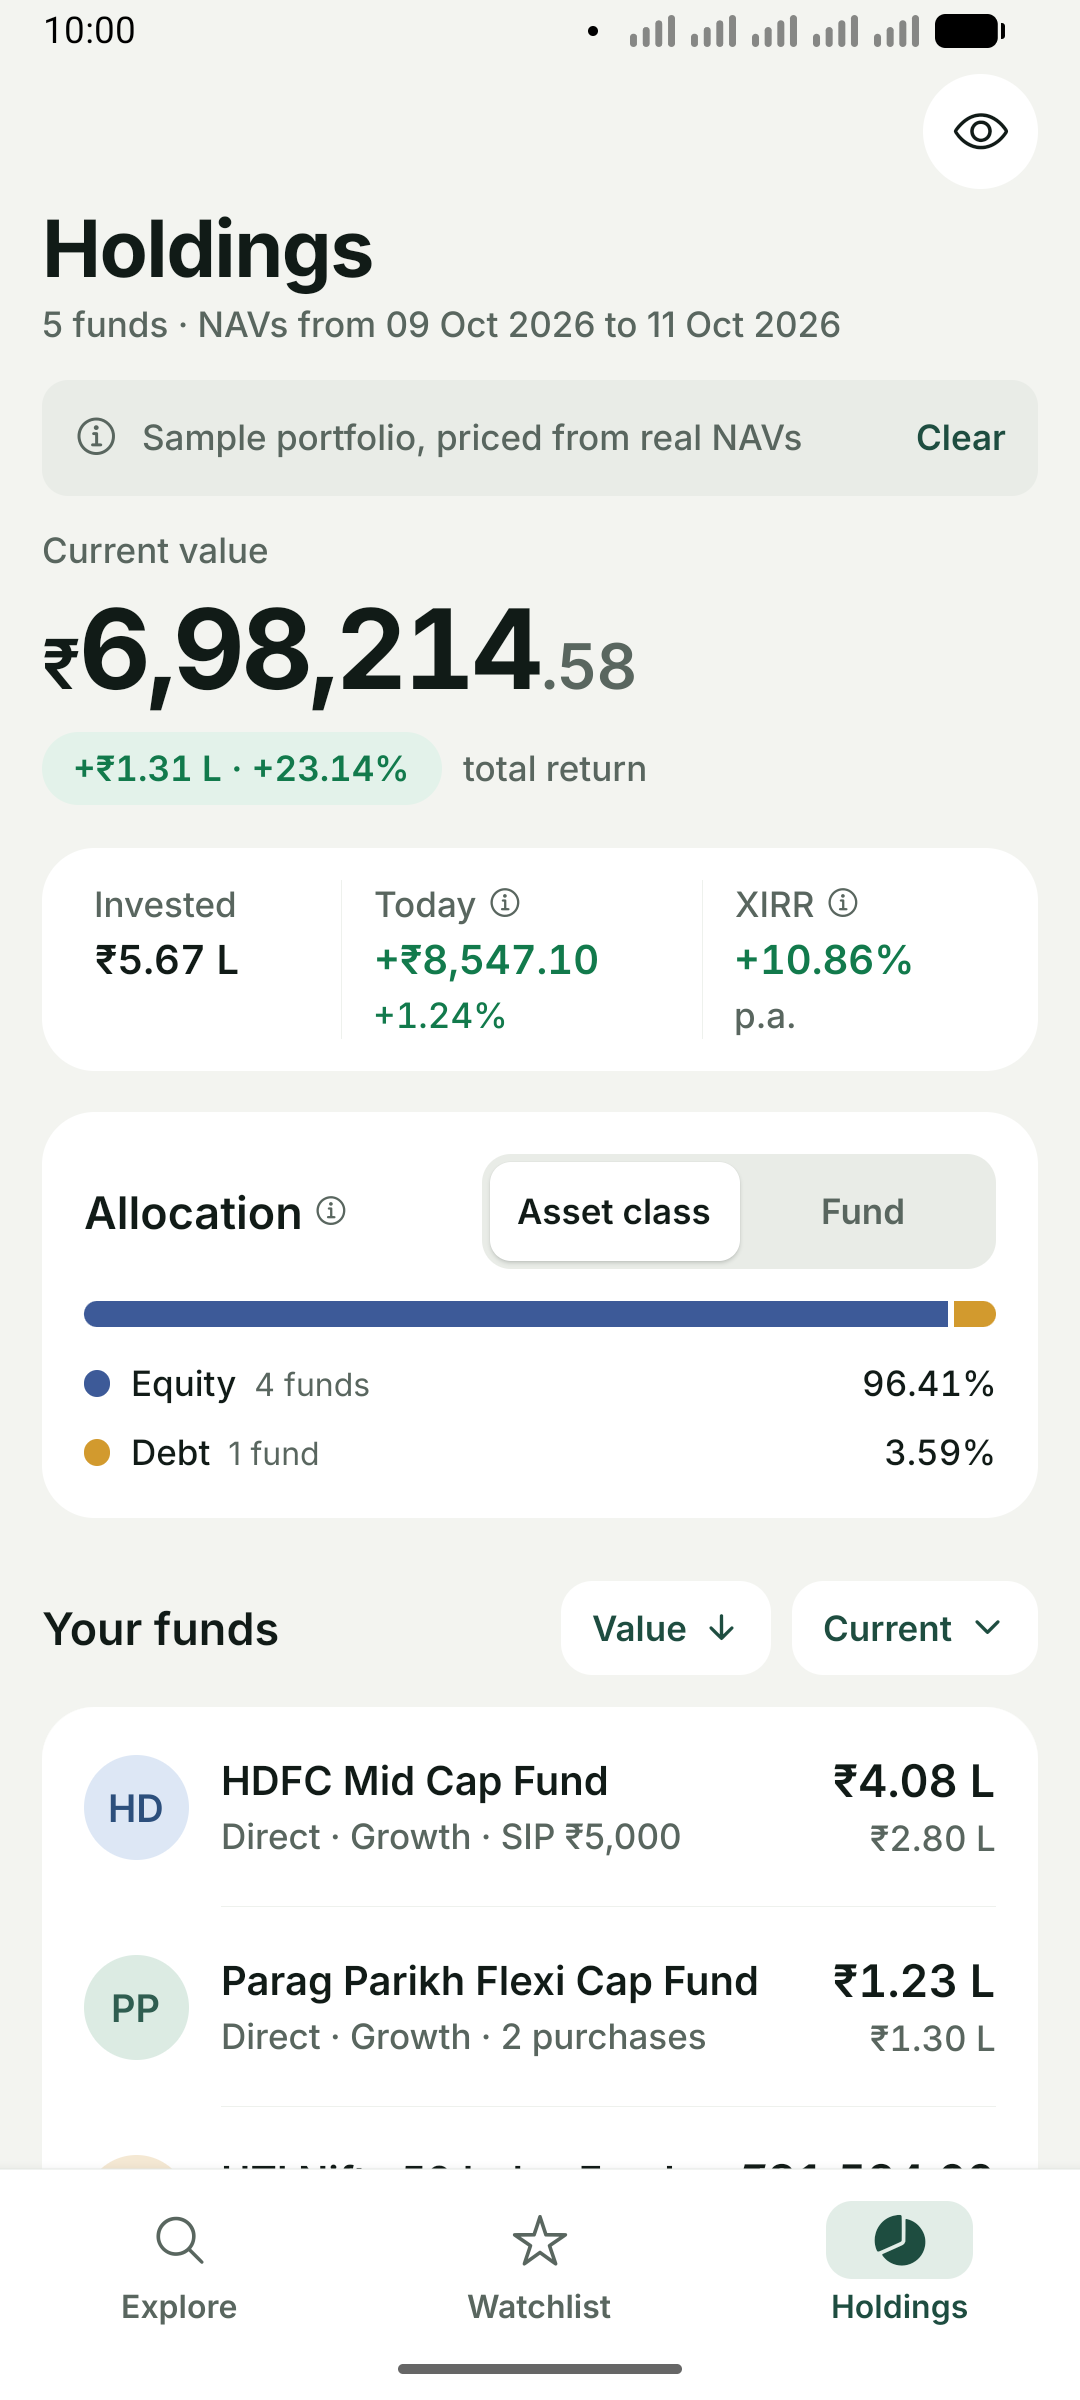
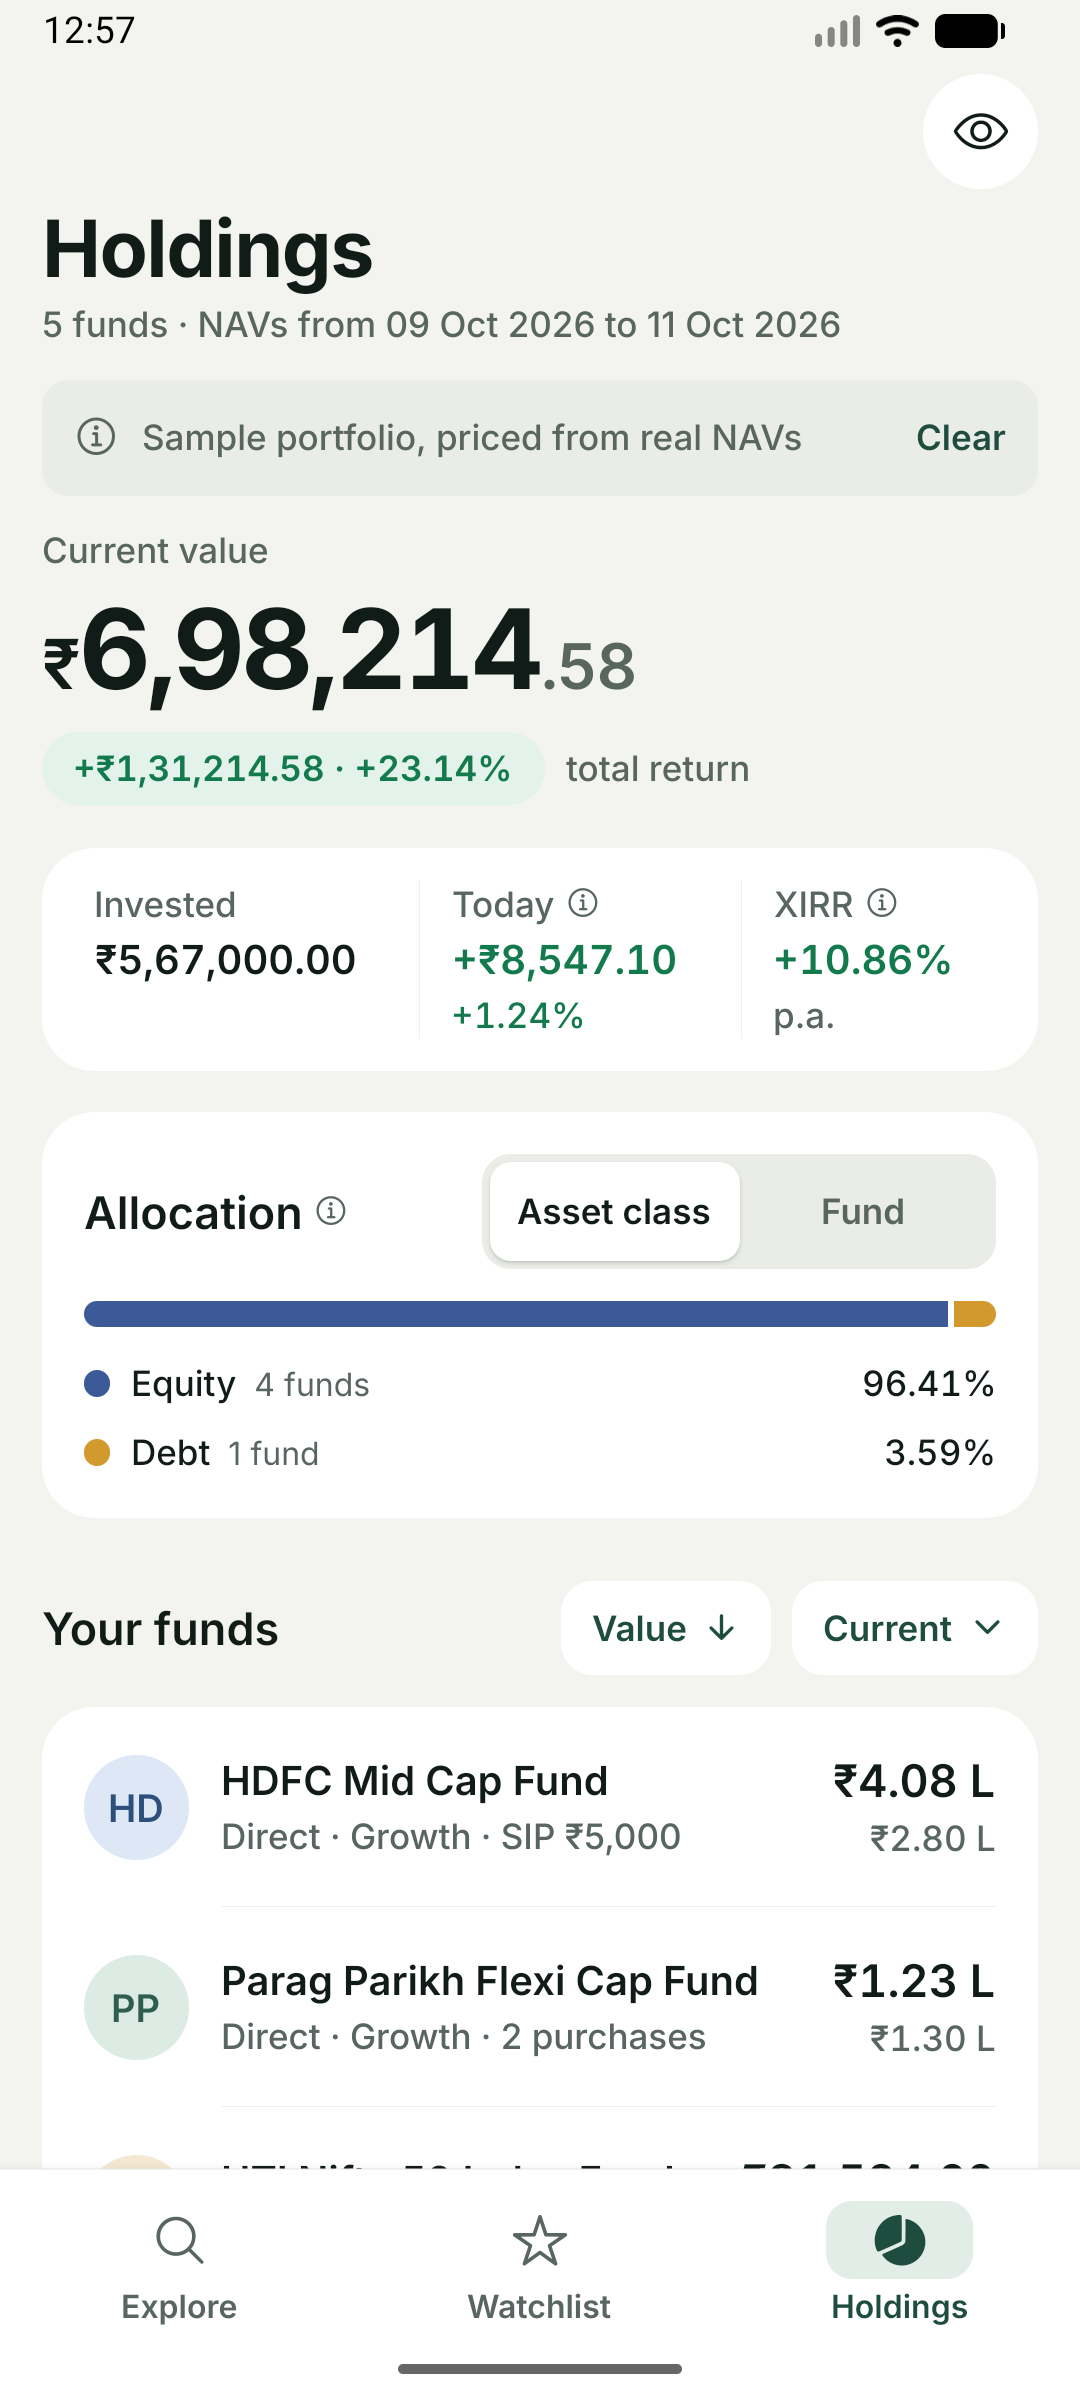
fix: exact amounts in the Holdings summary (compact only at large text); README screenshots with a clean status bar

diff --git a/src/components/holdings/PortfolioSummary.tsx b/src/components/holdings/PortfolioSummary.tsx
@@ -48,7 +48,8 @@ export function PortfolioSummary({
   excluded,
 }: PortfolioSummaryProps) {
   const { colors, spacing } = useTheme();
-  // At large text sizes three figures can't share a row: each gets its own line.
+  // At large text sizes three figures can't share a row: each gets its own line, and amounts
+  // shorten to lakh/crore so they fit. Otherwise the summary is exact, to match the statement.
   const stacked = useWindowDimensions().fontScale > 1.3;
 
   if (loading) {
@@ -70,7 +71,7 @@ export function PortfolioSummary({
         </AppText>
         <MoneyHero value={totals.current} scale={VALUE_SCALE} />
         <View style={[styles.inline, { gap: spacing.sm, marginTop: spacing.xs }]}>
-          <ChangeChip amount={totals.gain} scale={VALUE_SCALE} pctHundredths={totals.returnHundredths} private compact />
+          <ChangeChip amount={totals.gain} scale={VALUE_SCALE} pctHundredths={totals.returnHundredths} private compact={stacked} />
           <AppText variant="label" tone="muted" maxFontSizeMultiplier={1.3}>
             total return
           </AppText>
@@ -80,13 +81,13 @@ export function PortfolioSummary({
       <Card style={{ paddingVertical: spacing.md }}>
         <View style={stacked ? { gap: spacing.md } : styles.strip}>
           <Cell label="Invested" stacked={stacked}>
-            <PrivateAmount value={totals.invested} scale={VALUE_SCALE} variant="rowTitle" maxFontSizeMultiplier={1.3} compact />
+            <PrivateAmount value={totals.invested} scale={VALUE_SCALE} variant="rowTitle" maxFontSizeMultiplier={1.3} compact={stacked} />
           </Cell>
           {!stacked && <View style={[styles.divider, { backgroundColor: colors.hairline }]} />}
           <Cell label="Today" term="oneDay" stacked={stacked}>
             {dayGain !== null ? (
               <>
-                <SignedAmount value={dayGain.amount} scale={VALUE_SCALE} variant="rowTitle" maxFontSizeMultiplier={1.3} private compact />
+                <SignedAmount value={dayGain.amount} scale={VALUE_SCALE} variant="rowTitle" maxFontSizeMultiplier={1.3} private compact={stacked} />
                 <SignedPercent hundredths={dayGain.pctHundredths} variant="label" maxFontSizeMultiplier={1.3} />
               </>
             ) : (

diff --git a/docs/DESIGN.md b/docs/DESIGN.md
@@ -114,7 +114,7 @@ The app was correct and clean but read like a careful template: every block in a
 | Holdings | value in a card, rows on the page, "<> Current (invested)" | the value as the hero on the page, one strip for Invested, Today and XIRR, "Your funds" with two small buttons, rows in one card | the one number first; every figure has one place |
 | Fund page | three ⓘ tags, return 32 pt, chart with side margins, key facts as a grid with lines | tag chips that open the glossary, return 46 pt with "p.a.", chart edge to edge, key facts in a card | the return is the headline; the chart gets the full width |
 | Explore and Watchlist | rows on the page, the fund house as a third line, every row dated | rows in one card, two lines, the shared NAV date in the list header | denser and calmer; a date appears only where it differs |
-| Large amounts in dense places | "₹4,08,410.41" in every row and the strip | "₹4.08 L" / "₹1.23 Cr" from a lakh up (`formatInrCompact`, tested), full form below a lakh; the hero value and the fund page stay exact; screen readers always hear the exact amount | rows scan faster and long fund names stop truncating; the exact figure is one tap away |
+| Large amounts in dense places | "₹4,08,410.41" in every row | "₹4.08 L" / "₹1.23 Cr" from a lakh up in the fund rows (`formatInrCompact`, tested), full form below a lakh; the Holdings summary (hero, strip, total-return chip) and the fund page stay exact to match the statement, shortening only at large text sizes; screen readers always hear the exact amount | rows scan faster and long fund names stop truncating; the exact figure is one tap away |
 | Sample banner | an info alert | a slim 44-pt bar with a text Clear | nothing is wrong, so it shouldn't look like a warning |
 
 ## What we deliberately left out

diff --git a/docs/BUILD_LOG.md b/docs/BUILD_LOG.md
@@ -519,3 +519,5 @@ Presentation only: nothing in `src/domain`, `src/api`, `src/query` or `src/store
 
 - README screenshots 02, 04 and 07 retaken for the last features (the "Other plans" chip, the returns toggle, the watchlist period button).
 - AI_CONTEXT.md finalised at the user's request: the draft note and the drafting comments removed; the research-tools line states what is known (three earlier deep-research reports from other AI assistants) without naming tools. Other docs that mentioned the placeholder markers now say "author's-own-words sections". A search for the placeholder, to-do and draft markers finds none outside the lockfile.
+- **Holdings summary exact again (claude.ai review, passed on by the user).** "Invested ₹5.67 L" beside "Today +₹8,547.10" and a "+₹1.31 L" chip contradicted the app's own point that invested matches the statement to the paisa. The strip and the total-return chip are exact ("₹5,67,000.00", "+₹1,31,214.58 · +23.14%") and shorten to lakh/crore only at large text sizes (above 1.3×), where the exact figures don't fit; the fund rows stay compact. Checked at 1.0× and 2.0×.
+- **README screenshots retaken with a clean status bar.** Demo mode drew the mobile signal white on this emulator image (unreadable on the light bar), so the shots use the real status bar with mobile data on: one mobile signal, one Wi-Fi icon and a full battery; only the clock differs from demo mode.
